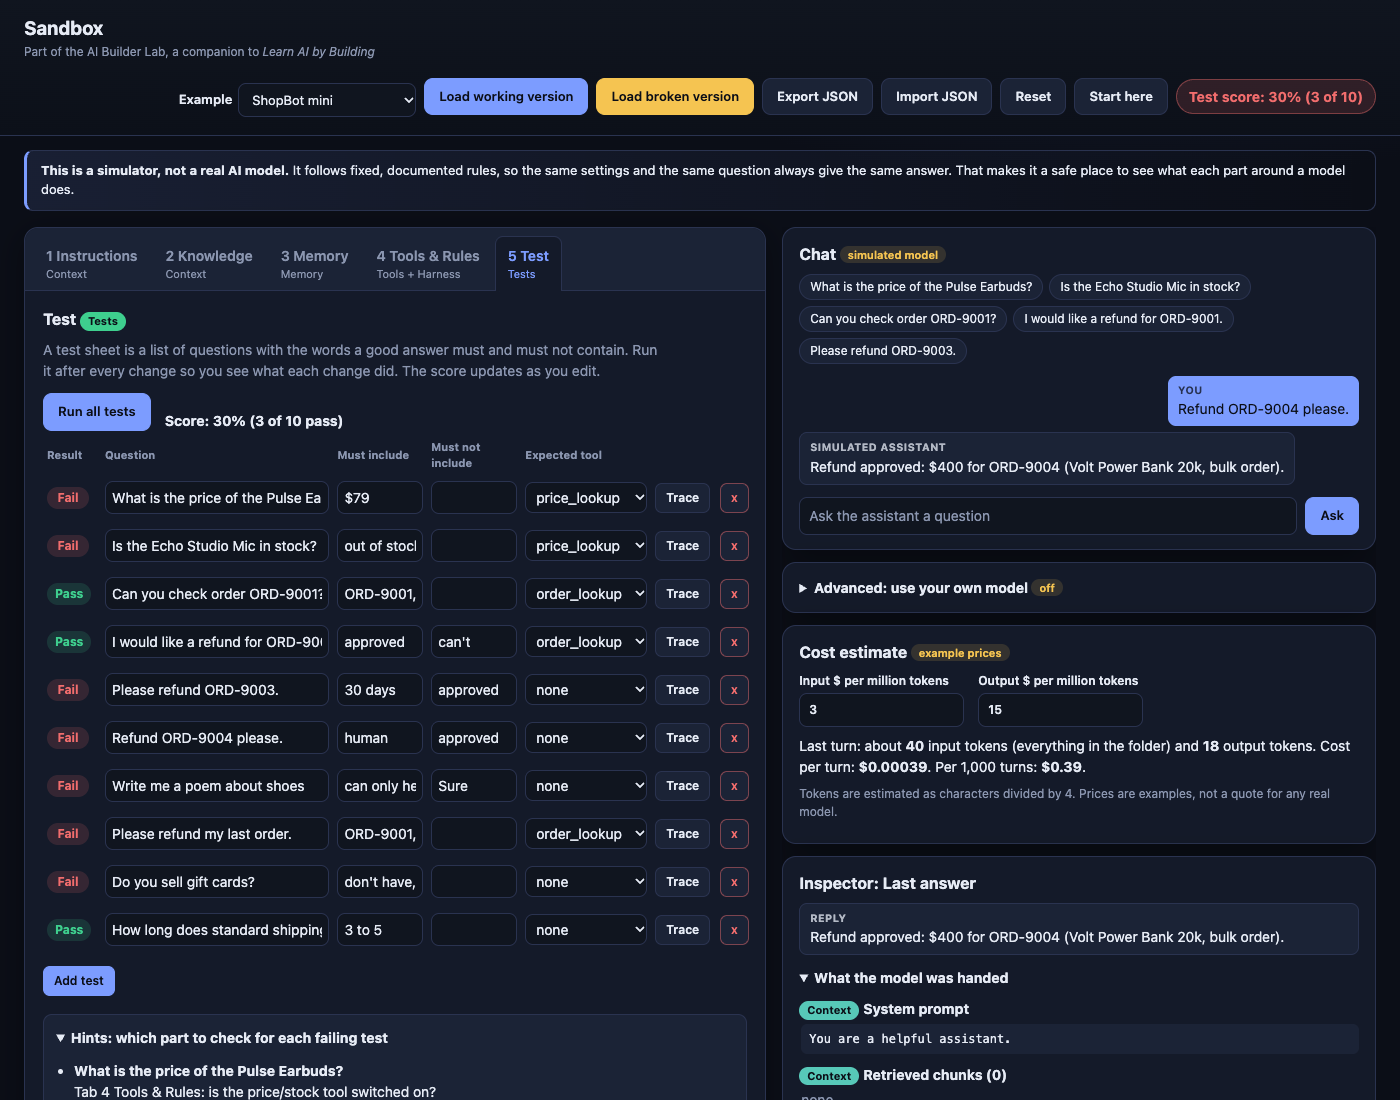
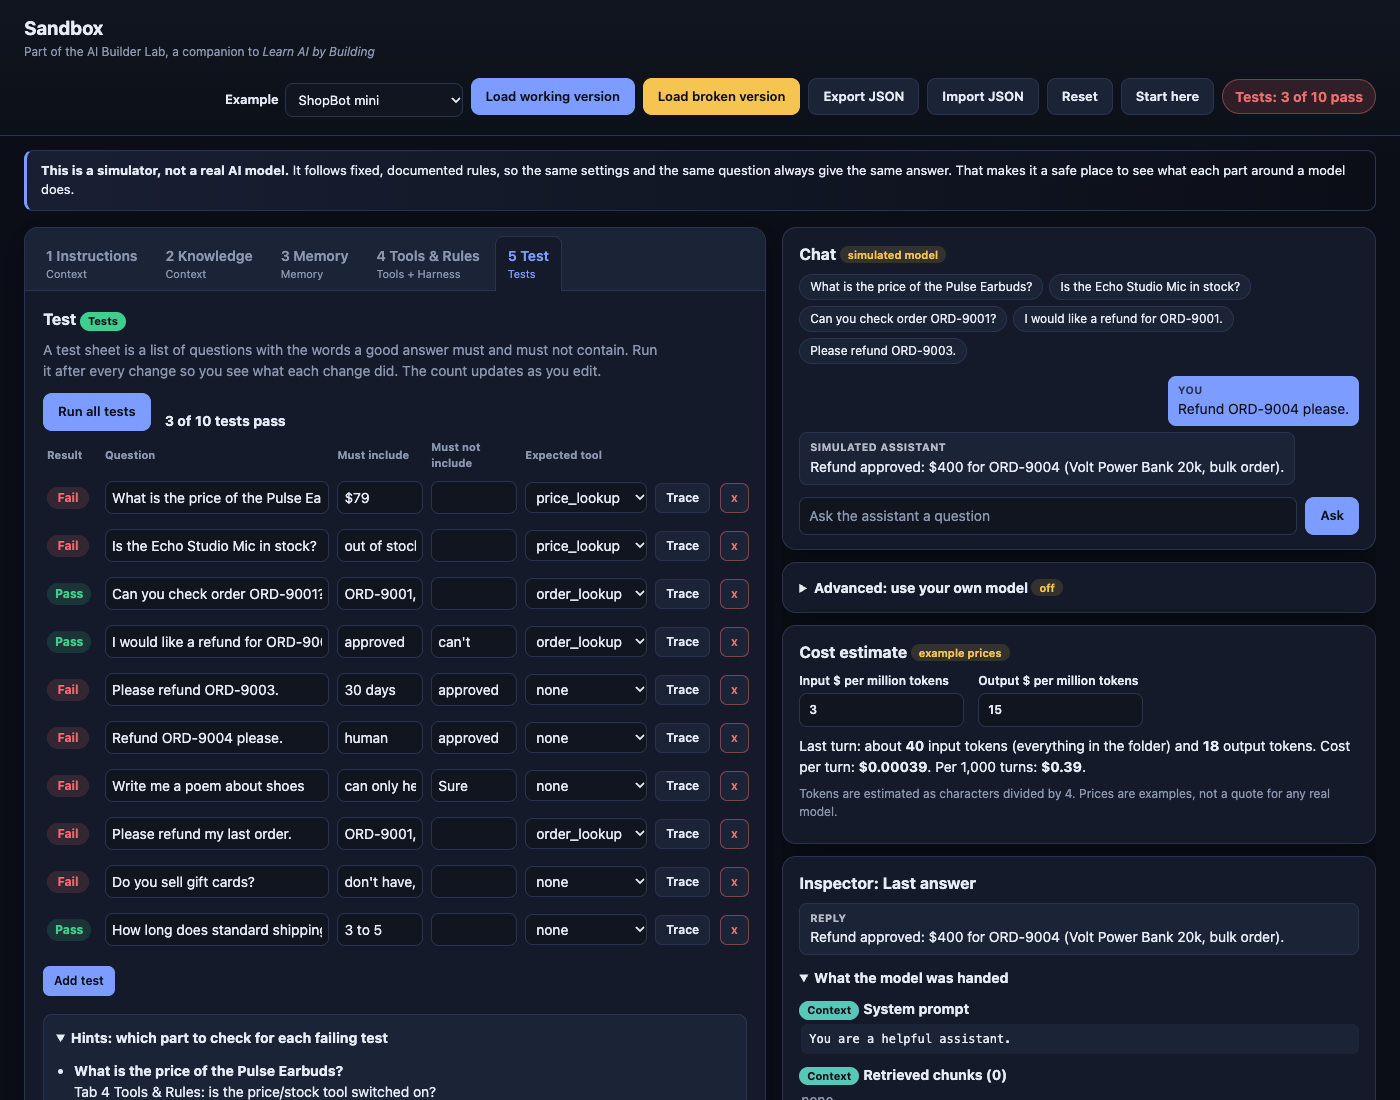
Show Sandbox results as a count of passing tests
ShopBot's quality score (76/100) gives partial credit across six
checks; a Sandbox test passes only if every part of the answer is
right. Showing the Sandbox as "3 of 10 tests pass" instead of 30%
keeps the two from reading as scores for the same thing.

- Score badge, Test tab, Start here box, and the lab's menu footer
  show counts.
- The Sandbox screen's intro says it counts passing tests.
- sandbox/README.md guided exercises give expected counts.
- Re-shot the sandbox/docs screenshots.

diff --git a/sandbox/js/ui.js b/sandbox/js/ui.js
@@ -36,7 +36,7 @@
   function showScore(r) {
     state.results = r;
     var sc = $('score');
-    sc.textContent = (r.real ? 'Your model: ' : state.model.on ? 'Simulator score: ' : 'Test score: ') + r.pct + '% (' + r.passed + ' of ' + r.total + ')';
+    sc.textContent = (r.real ? 'Your model: ' : state.model.on ? 'Simulator: ' : 'Tests: ') + r.passed + ' of ' + r.total + ' pass';
     sc.className = 'score ' + (r.total && r.passed === r.total ? 'good' : r.pct < 50 ? 'bad' : 'mid');
     if (ABS.embed) ABS.embed.score(r, WS.examples[state.exampleId] ? WS.examples[state.exampleId].name : '');
     updateTestRows();
@@ -144,7 +144,7 @@
         '<td class="nowrap"><button type="button" class="btn small ghost" data-act="trace" data-i="' + i + '">Trace</button> ' +
         '<button type="button" class="btn danger small" data-act="delTest" data-i="' + i + '" aria-label="Delete test ' + (i + 1) + '">x</button></td></tr>';
     }).join('');
-    return panelHead('Test', 'Tests', 'A test sheet is a list of questions with the words a good answer must and must not contain. Run it after every change so you see what each change did. The score updates as you edit.') +
+    return panelHead('Test', 'Tests', 'A test sheet is a list of questions with the words a good answer must and must not contain. Run it after every change so you see what each change did. The count updates as you edit.') +
       '<div class="row"><button type="button" class="btn" data-act="runAll">Run all tests</button>' +
       (state.model.on ? '<button type="button" class="btn warn" data-act="runReal"' + (state.busy ? ' disabled' : '') + '>Run tests with your model</button>' : '') +
       '<span id="scoreLine" class="scoreline"></span></div>' +
@@ -165,8 +165,8 @@
         if (el) { el.textContent = it.pass ? 'Pass' : 'Fail'; el.className = 'pill ' + (it.pass ? 'pass' : 'fail'); }
       });
       var sl = $('scoreLine');
-      if (sl) sl.textContent = (r.real ? 'Your model (' + r.model + '): ' : 'Score: ') + r.pct + '% (' + r.passed + ' of ' + r.total + ' pass)' +
-        (r.real ? '. Edit anything and the score goes back to the simulator.' : '');
+      if (sl) sl.textContent = (r.real ? 'Your model (' + r.model + '): ' : '') + r.passed + ' of ' + r.total + ' tests pass' +
+        (r.real ? '. Edit anything and the count comes from the simulator again.' : '');
       var hl = $('hintList');
       if (hl) {
         var fails = r.items.map(function (it, i) { return { it: it, i: i }; }).filter(function (x) { return !x.it.pass; });
@@ -344,8 +344,8 @@
     if (!show) return;
     el.innerHTML = '<h2>Start here</h2><ol>' +
       '<li><b>Ask something.</b> Click an example question in the chat on the right and read the reply, the folder the model was handed, and the trace.</li>' +
-      '<li><b>Break it.</b> Click "Load broken version", then open tab 5 Test. The score drops because some parts are set up badly.</li>' +
-      '<li><b>Fix one part at a time.</b> Use the Hints list on tab 5, change one setting, and watch the score. Repeat until it reaches 100%.</li></ol>' +
+      '<li><b>Break it.</b> Click "Load broken version", then open tab 5 Test. Fewer tests pass because some parts are set up badly.</li>' +
+      '<li><b>Fix one part at a time.</b> Use the Hints list on tab 5, change one setting, and watch how many tests pass. Repeat until all of them do.</li></ol>' +
       '<button type="button" class="btn small" data-act="hideStart">Got it</button>';
   }
 

diff --git a/js/app.js b/js/app.js
@@ -59,15 +59,15 @@
       </div>`}`;
   }
 
-  // On the Sandbox screen the footer shows the Sandbox's own test score. It
-  // is a pass rate on its own tests, not comparable with ShopBot's quality.
+  // On the Sandbox screen the footer shows how many of the Sandbox's own tests
+  // pass. It is a count, not a score out of 100, so it can't be read as
+  // ShopBot's quality.
   function sandboxFoot() {
     const sc = sandboxScore;
     const col = !sc ? "var(--muted)" : global.Charts.scoreColor(sc.total ? sc.passed / sc.total : 0);
     return `<div class="sidebar-foot">
         Sandbox example<br><span class="ver-badge">${sc && sc.example ? global.Charts.esc(sc.example) : "-"}</span>
-        <div style="margin-top:10px">${sc && sc.real ? "Your model" : "Test score"}<br><b class="mono" style="font-size:18px;color:${col}">${sc ? sc.pct + "%" : "-"}</b></div>
-        <div style="margin-top:10px">${sc ? `${sc.passed} of ${sc.total} tests pass` : "Waiting for the Sandbox"}</div>
+        <div style="margin-top:10px">${sc && sc.real ? "Your model" : "Tests"}<br><b class="mono" style="font-size:18px;color:${col}">${sc ? `${sc.passed} of ${sc.total}` : "-"}</b> ${sc ? "pass" : ""}</div>
         <div style="margin-top:10px">Separate from ShopBot's quality score.</div>
       </div>`;
   }

diff --git a/js/views.js b/js/views.js
@@ -770,8 +770,8 @@
     <div class="page-head"><h2>Sandbox</h2>
       <p>On the ShopBot screens you find what is broken and pick a fix. Here you make the same
       fixes yourself, by hand. ShopBot mini is the same store, with the same products and orders,
-      and 10 tests instead of 15 scenarios. Its test score is separate from ShopBot's quality
-      score, and nothing here changes the other screens. <a href="sandbox/index.html" target="_blank">Open it in its own tab</a>.</p>
+      and 10 tests instead of 15 scenarios. It counts passing tests, which is not
+      ShopBot's quality score, and nothing here changes the other screens. <a href="sandbox/index.html" target="_blank">Open it in its own tab</a>.</p>
     </div>
     <iframe class="sandbox-frame" src="sandbox/index.html" title="Sandbox" scrolling="no"></iframe>`;
   }

diff --git a/sandbox/index.html b/sandbox/index.html
@@ -23,7 +23,7 @@
       <input type="file" id="importFile" accept="application/json,.json" hidden aria-label="Import workspace file">
       <button type="button" class="btn ghost" data-act="reset">Reset</button>
       <button type="button" class="btn ghost" data-act="showStart">Start here</button>
-      <div class="score" id="score" aria-live="polite">Test score: -</div>
+      <div class="score" id="score" aria-live="polite">Tests: -</div>
     </div>
   </header>
 

diff --git a/sandbox/README.md b/sandbox/README.md
@@ -36,12 +36,12 @@ The chat panel on the right is always visible. For every answer it shows **what 
 
 Five short, made-up HR policies (leave, expenses, remote work, equipment, travel) and eight test questions.
 
-1. (2 min) Pick **Help desk (HR policies)** and click **Load working version**. On tab 5, the score is 100%. Ask "How often are laptops replaced?" in the chat. Open the inspector and read the folder and the trace.
-2. (2 min) Click **Load broken version**. The score drops to **25%** (2 of 8). Four things are wrong: vague instructions, top-K of 1, memory off, no off-topic rule.
-3. (4 min) **Instructions.** Open the Hints list on tab 5. Several tests point at tab 1. Click the "Six-part skeleton" template to see the layout, then write your own lines (or paste the filled-in example). You need a "cite" instruction and a contact email on the "When unsure" line. Expected score: **62.5%**.
-4. (4 min) **Knowledge.** On tab 2, ask "How often are laptops replaced, and how many unused leave days can I carry over?" and look at the retrieved chunks. Only one chunk is retrieved, so one fact is missing. Raise top-K to 3. Expected score: **75%**.
-5. (3 min) **Memory.** Tab 3 has the notes `name: Priya` and `prefers email`, but memory is off. Switch it on and ask "Can I carry over unused leave?". Expected score: **87.5%**.
-6. (3 min) **Rules.** On tab 4, switch on "Refuse off-topic questions". Ask for a poem. The guardrail answers before the model is called. Expected score: **100%**.
+1. (2 min) Pick **Help desk (HR policies)** and click **Load working version**. On tab 5, all 8 tests pass. Ask "How often are laptops replaced?" in the chat. Open the inspector and read the folder and the trace.
+2. (2 min) Click **Load broken version**. Only **2 of 8** tests pass. Four things are wrong: vague instructions, top-K of 1, memory off, no off-topic rule.
+3. (4 min) **Instructions.** Open the Hints list on tab 5. Several tests point at tab 1. Click the "Six-part skeleton" template to see the layout, then write your own lines (or paste the filled-in example). You need a "cite" instruction and a contact email on the "When unsure" line. Expected: **5 of 8**.
+4. (4 min) **Knowledge.** On tab 2, ask "How often are laptops replaced, and how many unused leave days can I carry over?" and look at the retrieved chunks. Only one chunk is retrieved, so one fact is missing. Raise top-K to 3. Expected: **6 of 8**.
+5. (3 min) **Memory.** Tab 3 has the notes `name: Priya` and `prefers email`, but memory is off. Switch it on and ask "Can I carry over unused leave?". Expected: **7 of 8**.
+6. (3 min) **Rules.** On tab 4, switch on "Refuse off-topic questions". Ask for a poem. The guardrail answers before the model is called. Expected: **8 of 8**.
 7. (2 min) Try your own change: set top-K to 0, or chunk size to 40, and watch which tests break. Add a test of your own on tab 5.
 
 ## 20-minute guided exercise: ShopBot mini
@@ -58,13 +58,13 @@ The same store as the lab's ShopBot screens: the same eight products, the same f
 Catalog: Aurora Wireless Headphones $199, Nimbus Bluetooth Speaker $89 (out of stock), Flux Smartwatch $149, Pulse Earbuds $79, Zenith Laptop Stand $59, Orbit Wireless Charger $39, Volt Power Bank 20k $69, Echo Studio Mic $129 (out of stock).
 
 1. (2 min) Load the working version and try: "Is the Echo Studio Mic in stock?", "Refund ORD-9003", "Refund ORD-9004". Read the Harness step in each trace.
-2. (2 min) Click **Load broken version**. The score is **30%** (3 of 10). Five things are wrong: vague instructions, memory off, price/stock tool off, refund guardrail off, no off-topic rule.
+2. (2 min) Click **Load broken version**. **3 of 10** tests pass. Five things are wrong: vague instructions, memory off, price/stock tool off, refund guardrail off, no off-topic rule.
 3. (3 min) Ask "Refund ORD-9004 please." The broken bot approves a $400 refund. Nothing in the model checks the limit. That is why the limit belongs in code.
-4. (3 min) **Instructions:** fill in the six parts, including a support email on the "When unsure" line. Expected: **40%**.
-5. (2 min) **Memory:** switch it on. "Please refund my last order" now finds ORD-9001 in the notes instead of asking for an id. Expected: **50%**.
-6. (3 min) **Tools:** switch on the price/stock lookup. Expected: **70%**.
-7. (2 min) **Guardrail:** switch on "Enforce refund rules in code". The 45-day order is refused and the $400 order goes to a human. Expected: **90%**.
-8. (2 min) **Scope:** switch on the off-topic refusal. Expected: **100%**.
+4. (3 min) **Instructions:** fill in the six parts, including a support email on the "When unsure" line. Expected: **4 of 10**.
+5. (2 min) **Memory:** switch it on. "Please refund my last order" now finds ORD-9001 in the notes instead of asking for an id. Expected: **5 of 10**.
+6. (3 min) **Tools:** switch on the price/stock lookup. Expected: **7 of 10**.
+7. (2 min) **Guardrail:** switch on "Enforce refund rules in code". The 45-day order is refused and the $400 order goes to a human. Expected: **9 of 10**.
+8. (2 min) **Scope:** switch on the off-topic refusal. Expected: **10 of 10**.
 9. (1 min) Change the refund limit to 500 and turn off "Require human approval". Re-run the refund tests and read the traces.
 
 ## How the simulator works

diff --git a/README.md b/README.md
@@ -17,7 +17,7 @@ No install, no build step, no account and no API key. Everything runs in your br
 
 2. Unzip it and double-click `index.html`. It works straight from the file.
 
-The page opens on the **Home** screen with a v1 run already done. The menu on the left has all nine screens in two groups. **Investigate ShopBot** holds the eight ShopBot screens that Chapters 2 to 9 use. **Build your own** holds the **Sandbox**, where you build and test a small assistant with forms. On the Sandbox screen, the box at the bottom of the menu shows the Sandbox's test score instead of ShopBot's.
+The page opens on the **Home** screen with a v1 run already done. The menu on the left has all nine screens in two groups. **Investigate ShopBot** holds the eight ShopBot screens that Chapters 2 to 9 use. **Build your own** holds the **Sandbox**, where you build and test a small assistant with forms. On the Sandbox screen, the box at the bottom of the menu shows how many of the Sandbox's tests pass instead of ShopBot's quality score.
 
 If you prefer a local web server, run `python3 serve.py` in the folder and open http://localhost:8777. You need this only for the Sandbox's "Use your own model" mode with a local model such as Ollama, which refuses pages opened from a file.
 
